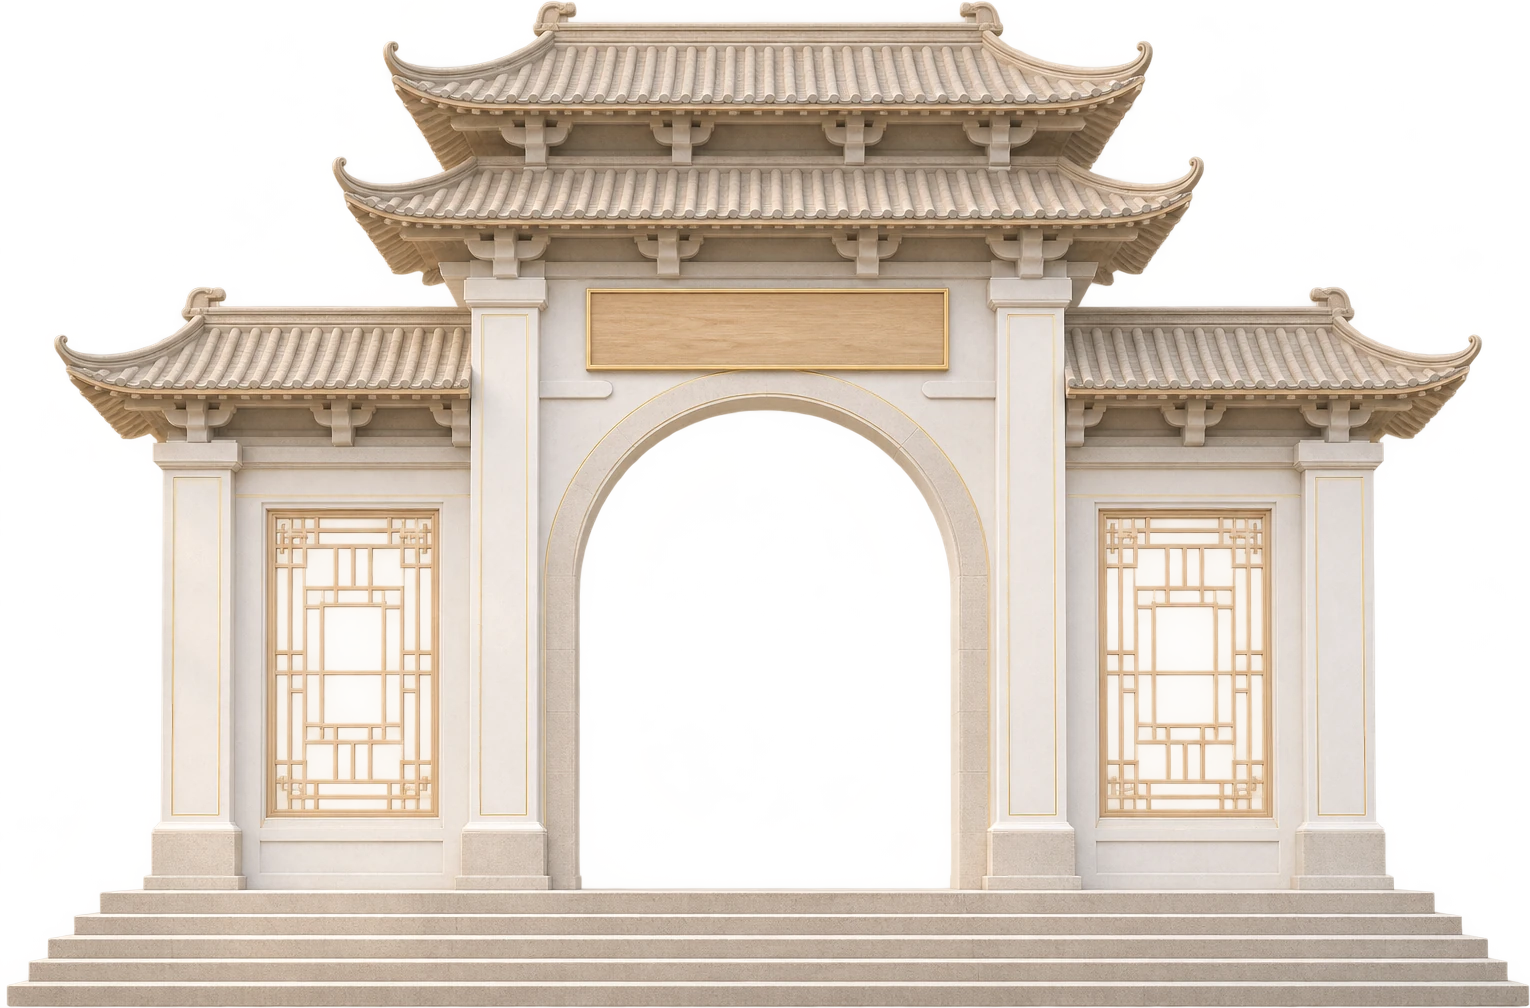
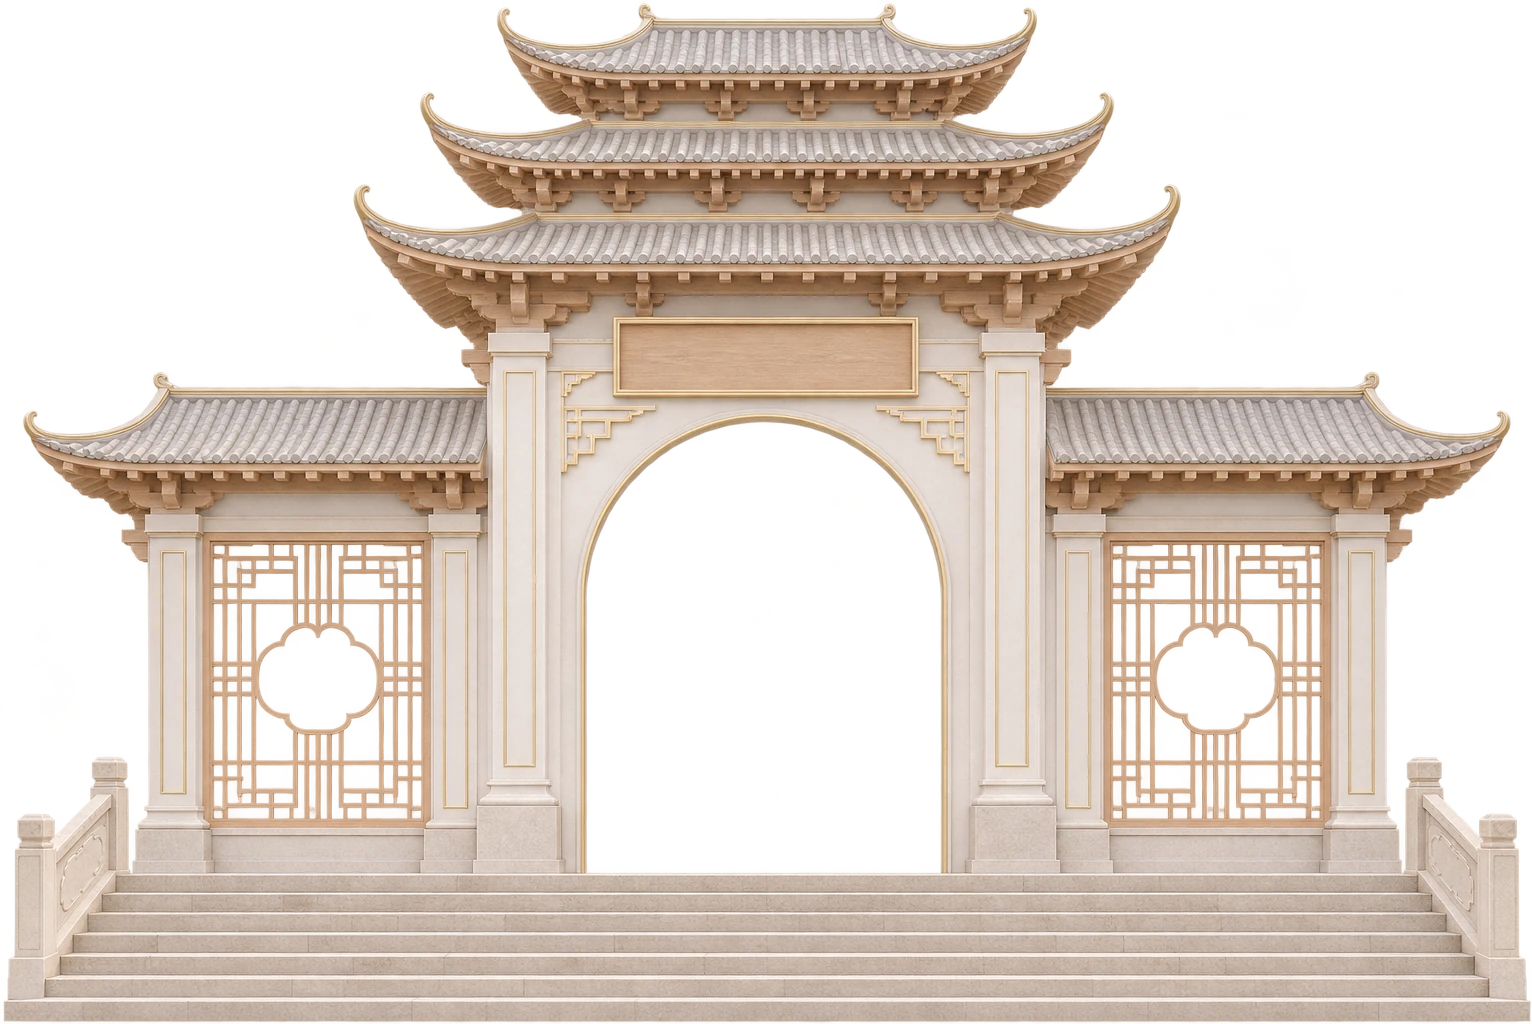
換成第二版三開間大門（三重屋簷、石欄杆、門洞更高）
門洞 369 x 469（珠簾 26 x 32）、匾額、中間那一間的位置更新在 js/gate.js。

diff --git a/js/gate.js b/js/gate.js
@@ -4,11 +4,11 @@
 export const GATE = {
   src: "assets/gate-grand.webp",
   w: 1600,
-  h: 1054,
+  h: 1069,
   // 中間門洞（透明的地方）：珠簾掛在這裡
-  door: { x0: 607, x1: 993, y0: 430, y1: 928 },
+  door: { x0: 613, x1: 982, y0: 442, y1: 911 },
   // 匾額中心與大小：「慈惠道場」疊在上面
-  plaque: { cx: 802, cy: 345, w: 379, h: 85 },
+  plaque: { cx: 800, cy: 373, w: 319, h: 83 },
   // 中間那一間（含兩根柱子）：手機看不下整座門時，放大看這一段
-  centerBay: { x0: 479, x1: 1132 }
+  centerBay: { x0: 441, x1: 1161 }
 };
